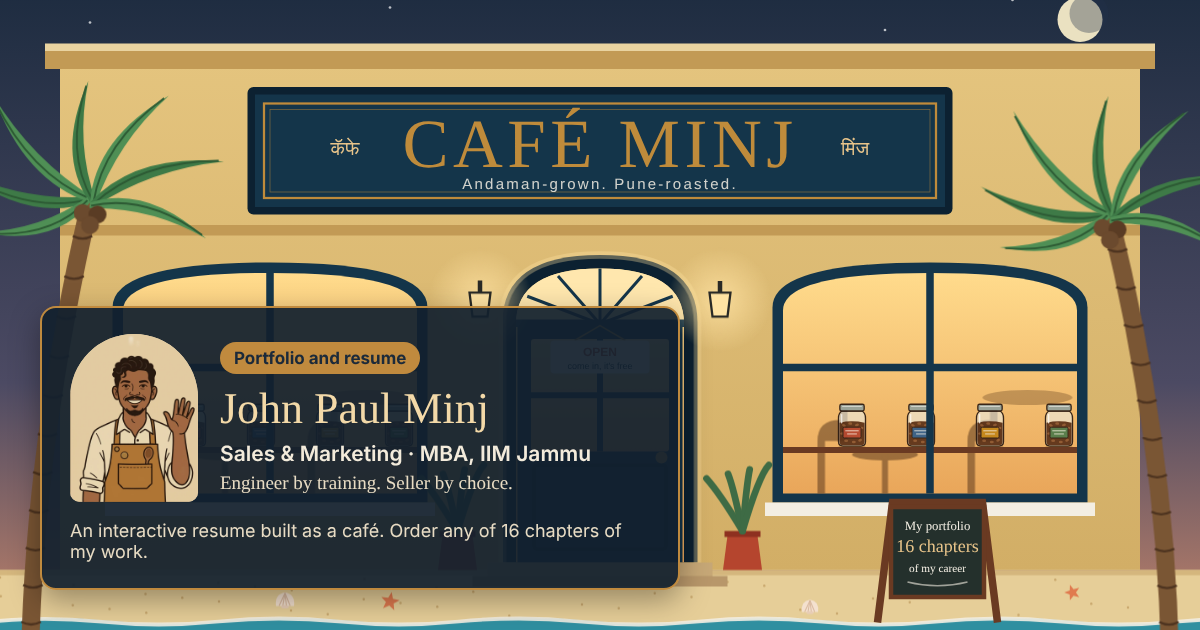
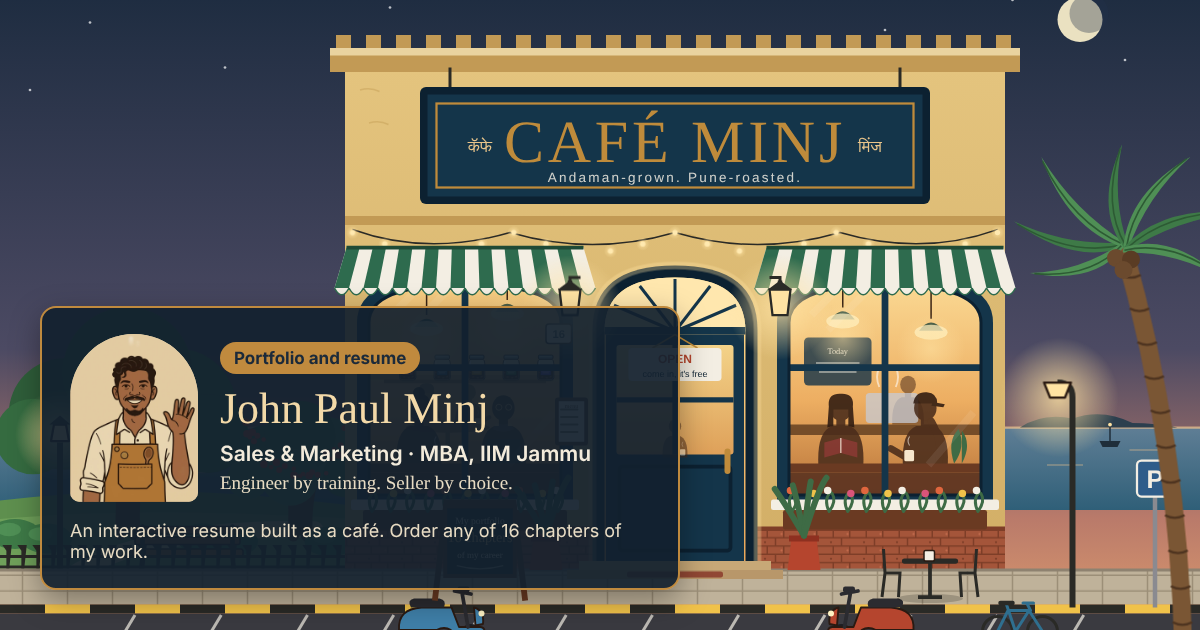
New café front: footpath and parking bays, a small park with bench and gulmohar, awnings, string lights, flower boxes, and people at the window bar
Claude-Session: https://claude.ai/code/session_01M7PDTuVyJJ1kuWZYfUFzFc

diff --git a/js/art.js b/js/art.js
@@ -560,103 +560,251 @@ window.ART = (function () {
 
   /* ---------- the street front (viewBox 0 0 1600 900) ---------- */
   function street(person) {
-    const win = (x) => `<g>
-      <path d="M${x},700 L${x},440 Q${x},380 ${x + 210},380 Q${x + 420},380 ${x + 420},440 L${x + 420},700 Z" fill="${C.bottle}"/>
-      <path d="M${x + 14},688 L${x + 14},444 Q${x + 14},394 ${x + 210},394 Q${x + 406},394 ${x + 406},444 L${x + 406},688 Z" fill="url(#glow)"/>
-      <g opacity=".55" fill="#5B3A1E">
-        <path d="M${x + 60},688 l0,-70 q0,-28 30,-28 l0,-14 l10,0 l0,42 l-30,0 l0,70 Z"/>
-        <ellipse cx="${x + 150}" cy="636" rx="44" ry="8"/><rect x="${x + 146}" y="636" width="8" height="52"/>
-        <path d="M${x + 260},688 l0,-70 q0,-28 30,-28 l0,-14 l10,0 l0,42 l-30,0 l0,70 Z"/>
-        <ellipse cx="${x + 340}" cy="560" rx="60" ry="10" opacity=".6"/>
+    /* ---------- people seen through the glass: warm silhouettes ---------- */
+    const SIL = "#4A2C1B";
+    const person1 = (x, y, s = 1, o = {}) => {        // seated, facing out, waist-up; y = table/bar line
+      const f = o.flip ? -1 : 1;
+      return `<g transform="translate(${x},${y}) scale(${s * f},${s})" opacity="${o.op || .88}">
+        <path d="M-30,0 Q-32,-44 -12,-52 L12,-52 Q32,-44 30,0 Z" fill="${o.shirt || SIL}"/>
+        <rect x="-6" y="-62" width="12" height="12" fill="${SIL}"/>
+        <ellipse cx="0" cy="-76" rx="15" ry="17" fill="${SIL}"/>
+        ${o.hair === "bun" ? `<circle cx="0" cy="-96" r="8" fill="#2E1A10"/><path d="M-15,-80 Q-14,-96 0,-95 Q14,-96 15,-80 Q8,-88 0,-88 Q-8,-88 -15,-80Z" fill="#2E1A10"/>` : ""}
+        ${o.hair === "long" ? `<path d="M-16,-78 Q-18,-96 0,-95 Q18,-96 16,-78 L18,-50 L10,-52 L10,-74 L-10,-74 L-10,-52 L-18,-50 Z" fill="#2E1A10"/>` : ""}
+        ${o.hair === "cap" ? `<path d="M-16,-82 Q-14,-98 2,-97 Q16,-96 16,-82 Z M10,-84 l16,3 l-2,4 l-16,-2Z" fill="#2E1A10"/>` : ""}
+        ${o.glasses ? `<circle cx="-6" cy="-77" r="4" fill="none" stroke="#F6D28A" stroke-width="1.2" opacity=".8"/><circle cx="7" cy="-77" r="4" fill="none" stroke="#F6D28A" stroke-width="1.2" opacity=".8"/>` : ""}
+        ${o.look === "down" ? `<path d="M-10,-66 q10,6 20,0" stroke="#F6D28A" stroke-width="1" fill="none" opacity=".35"/>` : ""}
+        ${o.cup ? `<path d="M${o.cup},-8 l-24,-14 l0,0" stroke="${SIL}" stroke-width="9" stroke-linecap="round"/><rect x="${o.cup - 6}" y="-20" width="13" height="15" rx="2" fill="#FBF3DF"/><path d="M${o.cup + 1},-26 q-4,-6 0,-12" stroke="#fff" stroke-width="1.5" fill="none" opacity=".6"/>` : ""}
+        ${o.laptop ? `<path d="M-26,-2 L-22,-34 L22,-34 L26,-2 Z" fill="#2B2B30"/><circle cx="0" cy="-19" r="3" fill="#9FB8C8" opacity=".7"/><path d="M-12,-52 Q0,-46 12,-52" stroke="#9FD0F0" stroke-width="10" opacity=".12"/>` : ""}
+        ${o.book ? `<path d="M-22,-10 L0,-16 L22,-10 L22,-30 L0,-36 L-22,-30 Z" fill="#7A2E2E"/><path d="M0,-16 L0,-36" stroke="#F3EEE3" stroke-width="1.5"/>` : ""}
+        ${o.chin ? `<path d="M18,-4 Q24,-30 8,-58" stroke="${SIL}" stroke-width="10" fill="none" stroke-linecap="round"/>` : ""}
+      </g>`;
+    };
+    const pendant = (x, y, len) => `<path d="M${x},0 L${x},${y + len}" stroke="#3A2414" stroke-width="2"/>
+      <path d="M${x - 16},${y + len + 16} Q${x},${y + len - 6} ${x + 16},${y + len + 16} Z" fill="#2E4A3A"/>
+      <ellipse cx="${x}" cy="${y + len + 18}" rx="22" ry="10" fill="#FFF1C4" opacity=".75"/>
+      <circle cx="${x}" cy="${y + len + 40}" r="46" fill="url(#lampHalo)" opacity=".7"/>`;
+    /* one arched shop window with a lit room behind it */
+    const shopWindow = (x, w, id, side) => {
+      const r = w / 2, top = 410, bot = 690, cx = x + r;
+      const arch = `M${x},${bot} L${x},${top + 50} Q${x},${top} ${cx},${top} Q${x + w},${top} ${x + w},${top + 50} L${x + w},${bot} Z`;
+      const room = side === "L" ? `
+          <rect x="${x}" y="${top}" width="${w}" height="${bot - top}" fill="url(#roomL)"/>
+          <rect x="${x}" y="${top + 120}" width="${w}" height="6" fill="#B07A3E" opacity=".5"/>
+          ${[0, 1, 2, 3, 4].map(i => `<g transform="translate(${x + 30 + i * 46},${top + 88}) scale(.36)">${item("jar", { jarColor: ["#B5452E", "#2F5D8A", "#C98A1B", "#4E7A4A", "#6B4FD8"][i] })}</g>`).join("")}
+          <rect x="${x + 20}" y="${top + 126}" width="${w - 40}" height="5" fill="#8A5A2B" opacity=".7"/>
+          <!-- a couple at a table further in -->
+          <g opacity=".55">${person1(x + w * .30, 600, .62, { hair: "long", cup: 20 })}${person1(x + w * .52, 600, .62, { cup: -20, flip: true })}
+            <ellipse cx="${x + w * .41}" cy="600" rx="56" ry="7" fill="#5B3A1E"/><rect x="${x + w * .41 - 3}" y="600" width="6" height="40" fill="#5B3A1E"/></g>
+          ${pendant(x + w * .3, top - 410, 450)}${pendant(x + w * .72, top - 410, 430)}
+          <!-- window bar: people sitting facing the street, one watching it -->
+          ${person1(x + w * .26, 650, 1, { cup: 22, look: "down", hair: "bun" })}
+          ${person1(x + w * .70, 650, 1, { laptop: true, glasses: true })}
+          <rect x="${x}" y="648" width="${w}" height="12" fill="#6A3A22"/>
+          <rect x="${x}" y="660" width="${w}" height="${bot - 660}" fill="#5A3220" opacity=".9"/>` : `
+          <rect x="${x}" y="${top}" width="${w}" height="${bot - top}" fill="url(#roomR)"/>
+          <!-- back counter: the espresso machine and the barista at work -->
+          <rect x="${x + 20}" y="${top + 70}" width="90" height="64" rx="6" fill="#203A4A" opacity=".85"/>
+          <text x="${x + 65}" y="${top + 92}" text-anchor="middle" font-family="Kalam, cursive" font-size="11" fill="#F3EEE3" opacity=".85">Today</text>
+          <path d="M${x + 36},${top + 104} h58 M${x + 40},${top + 116} h50" stroke="#F3EEE3" stroke-width="2" opacity=".6"/>
+          <g opacity=".6">${person1(x + w * .62, 596, .7, { cap: false })}</g>
+          <rect x="${x + w * .40}" y="${596 - 42}" width="70" height="40" rx="5" fill="#C7CBD4" opacity=".75"/>
+          <path d="M${x + w * .40 + 18},${596 - 50} q-6,-14 0,-26 M${x + w * .40 + 40},${596 - 50} q6,-14 0,-26" stroke="#fff" stroke-width="2.5" fill="none" opacity=".55"/>
+          <rect x="${x}" y="596" width="${w}" height="14" fill="#5B3A1E" opacity=".8"/>
+          ${pendant(x + w * .28, top - 410, 440)}${pendant(x + w * .74, top - 410, 455)}
+          <!-- window bar: a reader, and someone resting their chin, looking out -->
+          ${person1(x + w * .27, 650, 1, { book: true, hair: "long" })}
+          ${person1(x + w * .71, 650, 1, { chin: true, cup: -22, hair: "cap" })}
+          <path d="M${x + w * .86},648 q-10,-30 6,-46 q10,24 -6,46 M${x + w * .9},648 q14,-26 0,-44" fill="#3E6B45"/>
+          <rect x="${x}" y="648" width="${w}" height="12" fill="#6A3A22"/>
+          <rect x="${x}" y="660" width="${w}" height="${bot - 660}" fill="#5A3220" opacity=".9"/>`;
+      return `<g class="shop-window">
+        <clipPath id="clip-${id}"><path d="${arch}"/></clipPath>
+        <path d="M${x - 16},${bot + 10} L${x - 16},${top + 50} Q${x - 16},${top - 16} ${cx},${top - 16} Q${x + w + 16},${top - 16} ${x + w + 16},${top + 50} L${x + w + 16},${bot + 10} Z" fill="${C.bottle}"/>
+        <g clip-path="url(#clip-${id})">${room}
+          <path d="M${x + 30},${top + 40} L${x + 90},${top - 20} M${x + 52},${top + 60} L${x + 140},${top - 28} M${x + w - 70},${bot - 40} L${x + w - 10},${bot - 110}" stroke="#fff" stroke-width="10" opacity=".08"/>
+        </g>
+        <path d="M${cx},${top} L${cx},${bot} M${x},${top + 110} L${x + w},${top + 110}" stroke="${C.bottle}" stroke-width="9"/>
+        <path d="${arch}" fill="none" stroke="${C.bottleInk}" stroke-width="4"/>
+        <!-- sill and a flower box -->
+        <rect x="${x - 24}" y="${bot + 6}" width="${w + 48}" height="14" rx="3" fill="${C.ivory}"/>
+        <rect x="${x - 8}" y="${bot + 20}" width="${w + 16}" height="26" rx="3" fill="${C.teak}"/>
+        ${Array.from({ length: 11 }, (_, i) => { const fx = x + 4 + i * (w - 8) / 10; return `<path d="M${fx},${bot + 22} q-8,-16 2,-26 M${fx},${bot + 22} q10,-14 4,-24" stroke="#3E6B45" stroke-width="4" fill="none" stroke-linecap="round"/><circle cx="${fx + (i % 2 ? 4 : -2)}" cy="${bot + (i % 2 ? -2 : -6)}" r="5" fill="${["#E0663E", "#F0C24A", "#F3EEE3", "#D9547A"][i % 4]}"/>`; }).join("")}
+        <!-- striped awning -->
+        <g>
+          <path d="M${x - 30},${top - 50} L${x + w + 30},${top - 50} L${x + w + 46},${top + 4} L${x - 46},${top + 4} Z" fill="${C.ivory}"/>
+          ${Array.from({ length: 9 }, (_, i) => { const a = x - 30 + i * (w + 60) / 9, b = x - 46 + i * (w + 92) / 9, wa = (w + 60) / 18, wb = (w + 92) / 18; return `<path d="M${a},${top - 50} L${a + wa},${top - 50} L${b + wb},${top + 4} L${b},${top + 4} Z" fill="#2E6B4E"/>`; }).join("")}
+          <path d="${Array.from({ length: 18 }, (_, i) => { const b = x - 46 + i * (w + 92) / 18, wb = (w + 92) / 18; return `M${b},${top + 4} q${wb / 2},18 ${wb},0`; }).join(" ")}" fill="${C.ivory}" stroke="#2E6B4E" stroke-width="2"/>
+          <path d="M${x - 30},${top - 50} L${x + w + 30},${top - 50}" stroke="#1F4A36" stroke-width="5"/>
+        </g>
+      </g>`;
+    };
+    /* ---------- the park beside the café ---------- */
+    const tree = (x, base, h, r, col, flowers) => `<g>
+      <path d="M${x - 9},${base} Q${x - 4},${base - h * .5} ${x - 16},${base - h} M${x + 9},${base} Q${x + 6},${base - h * .5} ${x + 22},${base - h}" stroke="#5A3C24" stroke-width="16" fill="none" stroke-linecap="round"/>
+      <path d="M${x - 10},${base} L${x - 6},${base - h * .6} L${x + 8},${base - h * .6} L${x + 12},${base} Z" fill="#5A3C24"/>
+      ${[[-r * .7, -h - 10, r * .62], [r * .55, -h - 18, r * .66], [0, -h - r * .55, r * .72], [-r * .2, -h + 18, r * .58], [r * .9, -h + 16, r * .44], [-r * 1.05, -h + 20, r * .42]]
+        .map(([dx, dy, rr], i) => `<circle cx="${x + dx}" cy="${base + dy}" r="${rr}" fill="${col[i % col.length]}"/>`).join("")}
+      ${flowers ? Array.from({ length: 34 }, (_, i) => `<circle cx="${x + Math.sin(i * 2.3) * r * 1.1}" cy="${base - h - r * .3 + Math.cos(i * 1.7) * r * .55}" r="${3 + (i % 3)}" fill="${flowers}"/>`).join("") : ""}
+    </g>`;
+    const park = `
+      <!-- lawn, path, hedges -->
+      <path d="M-20,700 Q160,676 330,690 Q400,696 470,704 L470,800 L-20,800 Z" fill="#5E8F4E"/>
+      <path d="M-20,724 Q180,704 470,722 L470,800 L-20,800 Z" fill="#6FA05A"/>
+      <path d="M90,800 Q150,760 260,744 Q330,734 420,736" stroke="#D9C49A" stroke-width="22" fill="none" stroke-linecap="round" opacity=".9"/>
+      ${tree(170, 742, 150, 120, ["#2F5E3A", "#3E7A47", "#356B40"], null)}
+      ${tree(400, 744, 96, 66, ["#3E7A47", "#4F8F55"], "#E0472E")}
+      ${[[20, 742], [62, 748], [270, 748], [310, 752], [440, 752]].map(([x, y]) => `<ellipse cx="${x}" cy="${y}" rx="34" ry="20" fill="#3E7A47"/><ellipse cx="${x - 8}" cy="${y - 6}" rx="16" ry="9" fill="#4F8F55"/>`).join("")}
+      <!-- an empty bench under the lamp -->
+      <g transform="translate(250,770)">
+        <rect x="-70" y="-38" width="140" height="10" rx="3" fill="#8A5A2B" ${ol(2)}/><rect x="-70" y="-24" width="140" height="10" rx="3" fill="#8A5A2B" ${ol(2)}/>
+        <rect x="-74" y="-8" width="148" height="10" rx="3" fill="#A06A33" ${ol(2)}/>
+        <path d="M-60,2 L-62,22 M60,2 L62,22 M-60,-38 L-60,2 M60,-38 L60,2" stroke="#2A2A26" stroke-width="6" stroke-linecap="round"/>
       </g>
-      ${[0, 1, 2, 3].map(i => `<g transform="translate(${x + 70 + i * 92},560)" opacity=".92">${`<g transform="scale(.6)">${item("jar", { jarColor: ["#B5452E", "#2F5D8A", "#C98A1B", "#4E7A4A"][i] })}</g>`}</g>`).join("")}
-      <rect x="${x + 14}" y="626" width="392" height="8" fill="${C.teak}"/>
-      <path d="M${x + 210},394 L${x + 210},688 M${x + 14},520 L${x + 406},520" stroke="${C.bottle}" stroke-width="10"/>
-      <rect x="${x - 10}" y="700" width="440" height="18" fill="${C.ivory}"/>
+      <g><circle cx="80" cy="610" r="60" fill="url(#lampHalo)" class="halo"/>
+        <path d="M80,800 L80,620" stroke="#2A2A26" stroke-width="8"/><path d="M68,618 L92,618 L88,596 L72,596 Z" fill="#FFE3A3" ${ol(3)}/><path d="M66,596 L94,596 L80,584 Z" fill="#2A2A26"/></g>
+      <!-- the park railing along the footpath -->
+      <path d="M-20,786 L470,786 M-20,772 L470,772" stroke="#2A2A26" stroke-width="4"/>
+      ${Array.from({ length: 25 }, (_, i) => `<path d="M${-10 + i * 20},796 L${-10 + i * 20},764 l-4,-6 l8,0 Z" fill="#2A2A26" stroke="#2A2A26" stroke-width="3"/>`).join("")}`;
+    /* ---------- vehicles in the parking bays ---------- */
+    const scooter = (x, y, col, flip) => `<g transform="translate(${x},${y}) scale(${flip ? -1 : 1},1)">
+      <ellipse cx="0" cy="2" rx="62" ry="6" fill="#000" opacity=".25"/>
+      <circle cx="-38" cy="-14" r="16" fill="#1E1E22"/><circle cx="-38" cy="-14" r="6" fill="#8A8A90"/>
+      <circle cx="40" cy="-14" r="16" fill="#1E1E22"/><circle cx="40" cy="-14" r="6" fill="#8A8A90"/>
+      <path d="M-56,-22 Q-58,-50 -26,-52 L14,-52 L24,-26 L52,-26 Q60,-26 58,-14 L20,-14 Q10,-30 -6,-22 Z" fill="${col}" ${ol(2.5)}/>
+      <path d="M-40,-52 L4,-52 Q8,-62 -2,-64 L-36,-64 Q-46,-62 -40,-52 Z" fill="#2B2B30"/>
+      <path d="M36,-26 L28,-72 M18,-74 L40,-70" stroke="#2B2B30" stroke-width="5" stroke-linecap="round"/>
+      <path d="M44,-52 Q58,-48 56,-30 L46,-28 Z" fill="${col}" ${ol(2.5)}/><circle cx="54" cy="-44" r="4" fill="#FFF3C4"/>
+      <rect x="22" y="-80" width="16" height="8" rx="3" fill="#2B2B30"/>
+    </g>`;
+    const cycle = (x, y) => `<g transform="translate(${x},${y})" fill="none" stroke="#2A2A26" stroke-width="4" stroke-linecap="round">
+      <circle cx="-30" cy="-20" r="20"/><circle cx="30" cy="-20" r="20"/>
+      <path d="M-30,-20 L-6,-20 L12,-48 L-16,-48 Z M-6,-20 L-18,-56 M12,-48 L30,-20 M10,-56 L14,-48 M4,-58 L18,-58" stroke="#2F6F8F"/>
+      <path d="M-26,-58 L-10,-58" stroke-width="6"/>
     </g>`;
 
     return `<svg id="street-svg" viewBox="0 0 1600 900" preserveAspectRatio="xMidYMax slice" aria-hidden="true">
       <defs>
-        <linearGradient id="sky" x1="0" y1="0" x2="0" y2="1"><stop offset="0" stop-color="#1C2B3F"/><stop offset=".6" stop-color="#4C4A63"/><stop offset="1" stop-color="#C9876A"/></linearGradient>
+        <linearGradient id="sky" x1="0" y1="0" x2="0" y2="1"><stop offset="0" stop-color="#1C2B3F"/><stop offset=".55" stop-color="#4C4A63"/><stop offset=".8" stop-color="#B97A6A"/><stop offset="1" stop-color="#E6A36F"/></linearGradient>
         <linearGradient id="glow" x1="0" y1="0" x2="0" y2="1"><stop offset="0" stop-color="#FFDB8C"/><stop offset="1" stop-color="#E9A65A"/></linearGradient>
+        <linearGradient id="roomL" x1="0" y1="0" x2="0" y2="1"><stop offset="0" stop-color="#F7CF84"/><stop offset=".6" stop-color="#E9A65A"/><stop offset="1" stop-color="#B8743A"/></linearGradient>
+        <linearGradient id="roomR" x1="0" y1="0" x2="0" y2="1"><stop offset="0" stop-color="#FAD892"/><stop offset=".55" stop-color="#EDAE62"/><stop offset="1" stop-color="#B8743A"/></linearGradient>
         <linearGradient id="lime" x1="0" y1="0" x2="0" y2="1"><stop offset="0" stop-color="#E4C47E"/><stop offset="1" stop-color="#D2AE66"/></linearGradient>
+        <linearGradient id="seaDusk" x1="0" y1="0" x2="0" y2="1"><stop offset="0" stop-color="#5F7E95"/><stop offset="1" stop-color="#2F5F78"/></linearGradient>
         <radialGradient id="lampHalo"><stop offset="0" stop-color="#FFE3A3" stop-opacity=".8"/><stop offset="1" stop-color="#FFE3A3" stop-opacity="0"/></radialGradient>
+        <pattern id="laterite" width="44" height="22" patternUnits="userSpaceOnUse"><rect width="44" height="22" fill="#A4553A"/><path d="M0,21 H44 M22,0 V11 M0,10 H44 M11,11 V22 M33,11 V22" stroke="#7E3E28" stroke-width="2"/><circle cx="8" cy="5" r="1.5" fill="#7E3E28"/><circle cx="30" cy="16" r="1.5" fill="#C26B4C"/></pattern>
+        <pattern id="tiles" width="60" height="21" patternUnits="userSpaceOnUse"><rect width="60" height="21" fill="#BFB29A"/><path d="M0,20 H60 M30,0 V21" stroke="#9C8F78" stroke-width="2"/></pattern>
       </defs>
       <rect width="1600" height="900" fill="url(#sky)"/>
       <circle cx="1440" cy="56" r="30" fill="#F6EBC8" opacity=".95"/><circle cx="1452" cy="48" r="26" fill="#22324A" opacity=".35"/>
-      ${[[120, 60], [300, 120], [520, 40], [1180, 70], [1350, 30], [1500, 110], [860, 24]].map(([x, y]) => `<circle cx="${x}" cy="${y}" r="1.8" fill="#fff" opacity=".7"/>`).join("")}
-      <!-- building -->
-      <rect x="80" y="110" width="1440" height="680" fill="url(#lime)"/>
-      <rect x="60" y="96" width="1480" height="26" fill="#C29A55"/><rect x="60" y="88" width="1480" height="10" fill="#E9D3A0"/>
-      <rect x="80" y="330" width="1440" height="14" fill="#C29A55"/>
+      ${[[120, 60], [300, 120], [520, 40], [1180, 70], [1350, 30], [1500, 110], [860, 24], [40, 150], [700, 90]].map(([x, y]) => `<circle cx="${x}" cy="${y}" r="1.8" fill="#fff" opacity=".7"/>`).join("")}
+      <!-- the evening sea and the islands, behind the park and the lane -->
+      <rect x="0" y="600" width="1600" height="110" fill="url(#seaDusk)"/>
+      <path d="M0,600 L1600,600" stroke="#F2C48E" stroke-width="3" opacity=".7"/>
+      <path d="M40,600 q40,-26 90,-18 q30,-10 60,4 q24,-6 50,14 Z M1360,600 q30,-20 70,-12 q40,-14 80,6 q30,0 60,6 Z" fill="#2C3F4E"/>
+      ${[[90, 640], [250, 660], [1420, 650], [1530, 630]].map(([x, y]) => `<path d="M${x - 24},${y} h48" stroke="#F2C48E" stroke-width="2" opacity=".4"/>`).join("")}
+      <g transform="translate(1480,618)"><path d="M-14,0 L14,0 L10,8 L-10,8 Z" fill="#1F2E3A"/><path d="M0,0 L0,-20" stroke="#1F2E3A" stroke-width="2"/><circle cx="0" cy="-22" r="2.5" fill="#FFE3A3"/></g>
+      ${park}
+      <!-- the café building -->
+      <rect x="460" y="118" width="880" height="672" fill="url(#lime)"/>
+      ${Array.from({ length: 18 }, (_, i) => `<path d="M${480 + (i * 211) % 840},${150 + (i * 97) % 560} q14,-4 26,2" stroke="#C9A55E" stroke-width="2" fill="none" opacity=".6"/>`).join("")}
+      <rect x="440" y="102" width="920" height="24" fill="#C29A55"/><rect x="440" y="94" width="920" height="10" fill="#E9D3A0"/>
+      ${Array.from({ length: 23 }, (_, i) => `<rect x="${448 + i * 40}" y="76" width="20" height="18" fill="#C29A55"/>`).join("")}
+      <rect x="460" y="318" width="880" height="12" fill="#C29A55"/>
+      <rect x="460" y="736" width="880" height="54" fill="url(#laterite)"/>
+      <rect x="460" y="732" width="880" height="6" fill="#7E3E28"/>
       <!-- signboard -->
       <g>
-        <rect x="330" y="146" width="940" height="170" rx="8" fill="${C.bottleInk}"/>
-        <rect x="340" y="156" width="920" height="150" fill="${C.bottle}"/>
-        <rect x="352" y="168" width="896" height="126" fill="none" stroke="${C.gold}" stroke-width="3"/>
-        <rect x="360" y="176" width="880" height="110" fill="none" stroke="${C.gold}" stroke-width="1" opacity=".6"/>
-        <text x="800" y="252" text-anchor="middle" font-family="Rozha One, serif" font-size="92" letter-spacing="6" fill="${C.gold}">CAFÉ MINJ</text>
-        <text x="460" y="236" text-anchor="middle" font-family="Rozha One, serif" font-size="26" fill="${C.goldSoft}">कॅफे</text>
-        <text x="1140" y="236" text-anchor="middle" font-family="Rozha One, serif" font-size="26" fill="${C.goldSoft}">मिंज</text>
-        <text x="800" y="282" text-anchor="middle" font-family="Mukta, sans-serif" font-size="20" letter-spacing="3" fill="${C.ivory}" opacity=".85">Andaman-grown. Pune-roasted.</text>
+        <rect x="560" y="146" width="680" height="156" rx="8" fill="${C.bottleInk}"/>
+        <rect x="570" y="156" width="660" height="136" fill="${C.bottle}"/>
+        <rect x="582" y="168" width="636" height="112" fill="none" stroke="${C.gold}" stroke-width="3"/>
+        <text x="900" y="246" text-anchor="middle" font-family="Rozha One, serif" font-size="80" letter-spacing="5" fill="${C.gold}">CAFÉ MINJ</text>
+        <text x="640" y="232" text-anchor="middle" font-family="Rozha One, serif" font-size="22" fill="${C.goldSoft}">कॅफे</text>
+        <text x="1160" y="232" text-anchor="middle" font-family="Rozha One, serif" font-size="22" fill="${C.goldSoft}">मिंज</text>
+        <text x="900" y="272" text-anchor="middle" font-family="Mukta, sans-serif" font-size="18" letter-spacing="3" fill="${C.ivory}" opacity=".85">Andaman-grown. Pune-roasted.</text>
+        ${[600, 1200].map(x => `<path d="M${x},146 L${x},120" stroke="#2A2A26" stroke-width="4"/>`).join("")}
       </g>
-      ${win(150)}${win(1030)}
+      <!-- string lights under the cornice -->
+      <path d="M470,336 Q570,372 680,340 Q790,372 900,340 Q1010,372 1120,340 Q1230,372 1330,336" stroke="#2A2A26" stroke-width="2" fill="none"/>
+      ${Array.from({ length: 21 }, (_, i) => { const t = i / 20, x = 470 + t * 860, seg = (x - 470) % 215 / 215, y = 336 + Math.sin(seg * Math.PI) * 26 + 4; return `<circle cx="${x}" cy="${y}" r="9" fill="url(#lampHalo)" class="halo"/><circle cx="${x}" cy="${y}" r="3.5" fill="#FFE9B0"/>`; }).join("")}
+      ${shopWindow(492, 256, "wl", "L")}${shopWindow(1052, 256, "wr", "R")}
       <!-- door -->
       <g id="door-frame">
-        <path d="M670,780 L670,460 Q670,370 800,370 Q930,370 930,460 L930,780 Z" fill="${C.bottleInk}"/>
-        <path d="M688,780 L688,462 Q688,388 800,388 Q912,388 912,462 L912,780 Z" fill="url(#glow)"/>
-        <path d="M688,462 Q688,388 800,388 Q912,388 912,462 Z" fill="#FFE7AE"/>
-        ${[-60, -30, 0, 30, 60].map(a => `<path d="M800,462 L${800 + Math.sin(a * Math.PI / 180) * 112},${462 - Math.cos(a * Math.PI / 180) * 74}" stroke="${C.bottle}" stroke-width="4"/>`).join("")}
-        <rect x="688" y="456" width="224" height="10" fill="${C.bottle}"/>
+        <path d="M790,780 L790,470 Q790,384 900,384 Q1010,384 1010,470 L1010,780 Z" fill="${C.bottleInk}"/>
+        <path d="M806,780 L806,472 Q806,400 900,400 Q994,400 994,472 L994,780 Z" fill="url(#glow)"/>
+        <path d="M806,472 Q806,400 900,400 Q994,400 994,472 Z" fill="#FFE7AE"/>
+        ${[-60, -30, 0, 30, 60].map(a => `<path d="M900,472 L${900 + Math.sin(a * Math.PI / 180) * 94},${472 - Math.cos(a * Math.PI / 180) * 70}" stroke="${C.bottle}" stroke-width="4"/>`).join("")}
+        <rect x="806" y="466" width="188" height="10" fill="${C.bottle}"/>
         <g id="door" class="hot" data-act="enter">
-          <rect x="690" y="466" width="220" height="314" fill="${C.bottle}"/>
-          <rect x="708" y="482" width="184" height="150" rx="4" fill="url(#glow)" opacity=".95"/>
-          <path d="M800,482 L800,632 M708,557 L892,557" stroke="${C.bottle}" stroke-width="8"/>
-          <rect x="712" y="650" width="176" height="112" rx="4" fill="none" stroke="${C.bottleInk}" stroke-width="5"/>
-          <circle cx="882" cy="640" r="8" fill="${C.gold}"/>
-          <g transform="translate(800,520)">
-            <path d="M-34,-36 L0,-56 L34,-36" stroke="${C.gold}" stroke-width="2" fill="none"/>
-            <rect x="-66" y="-36" width="132" height="44" rx="5" fill="${C.ivory}"/>
-            <text x="0" y="-16" text-anchor="middle" font-family="Mukta, sans-serif" font-weight="700" font-size="16" fill="${C.chili}">OPEN</text>
-            <text x="0" y="2" text-anchor="middle" font-family="Mukta, sans-serif" font-size="12" fill="${C.bottleInk}">come in, it's free</text>
+          <rect x="808" y="476" width="184" height="304" fill="${C.bottle}"/>
+          <rect x="822" y="490" width="156" height="146" rx="4" fill="url(#glow)" opacity=".95"/>
+          <g opacity=".6">${person1(900, 640, .55, { cup: 18 })}</g>
+          <path d="M900,490 L900,636 M822,563 L978,563" stroke="${C.bottle}" stroke-width="7"/>
+          <rect x="826" y="652" width="148" height="112" rx="4" fill="none" stroke="${C.bottleInk}" stroke-width="5"/>
+          <rect x="966" y="628" width="8" height="34" rx="4" fill="${C.gold}"/>
+          <g transform="translate(900,528)">
+            <path d="M-30,-34 L0,-52 L30,-34" stroke="${C.gold}" stroke-width="2" fill="none"/>
+            <rect x="-62" y="-34" width="124" height="44" rx="5" fill="${C.ivory}"/>
+            <text x="0" y="-14" text-anchor="middle" font-family="Mukta, sans-serif" font-weight="700" font-size="16" fill="${C.chili}">OPEN</text>
+            <text x="0" y="4" text-anchor="middle" font-family="Mukta, sans-serif" font-size="12" fill="${C.bottleInk}">come in, it's free</text>
           </g>
         </g>
       </g>
+      <!-- house number, and a small menu case by the door -->
+      <g transform="translate(728,462)"><rect x="0" y="0" width="34" height="26" rx="4" fill="${C.ivory}" ${ol(2)}/><text x="17" y="19" text-anchor="middle" font-family="Mukta, sans-serif" font-weight="700" font-size="15" fill="${C.bottle}">16</text></g>
+      <g transform="translate(762,560)"><rect x="-22" y="0" width="44" height="64" rx="4" fill="${C.teak}"/><rect x="-17" y="5" width="34" height="54" fill="${C.ivory}"/>
+        ${[16, 26, 36, 46].map(y => `<path d="M-14,${y} h${y % 20 ? 22 : 28}" stroke="#8C7A66" stroke-width="2.5" stroke-linecap="round"/>`).join("")}<text x="0" y="14" text-anchor="middle" font-family="Kalam, cursive" font-size="8" fill="${C.teak}">menu</text></g>
       <!-- a pulse around the door and a comic pointer, so nobody misses the way in -->
-      <path class="door-pulse" d="M670,780 L670,460 Q670,370 800,370 Q930,370 930,460 L930,780" fill="none" stroke="#FFE3A3" stroke-width="10" stroke-linecap="round"/>
+      <path class="door-pulse" d="M790,780 L790,470 Q790,384 900,384 Q1010,384 1010,470 L1010,780" fill="none" stroke="#FFE3A3" stroke-width="10" stroke-linecap="round"/>
+      <!-- wall lanterns -->
+      ${[760, 1040].map(x => `<circle cx="${x}" cy="440" r="70" fill="url(#lampHalo)" class="halo"/><path d="M${x},408 l0,-8 l${x < 900 ? 14 : -14},0" stroke="#2A2A26" stroke-width="4" fill="none"/><rect x="${x - 3}" y="404" width="6" height="12" fill="#2A2A26"/><path d="M${x - 14},416 L${x + 14},416 L${x + 10},450 L${x - 10},450 Z" fill="#FFE3A3" stroke="#2A2A26" stroke-width="3"/><path d="M${x - 16},416 L${x + 16},416 L${x},404 Z" fill="#2A2A26"/>`).join("")}
+      <!-- steps and the footpath -->
+      <rect x="0" y="790" width="1600" height="46" fill="url(#tiles)"/>
+      <rect x="0" y="788" width="1600" height="4" fill="#8E8270"/>
+      <rect x="772" y="778" width="256" height="14" fill="#C7A877"/><rect x="756" y="790" width="288" height="12" fill="#B8976A"/>
+      <rect x="836" y="792" width="128" height="8" rx="3" fill="#8A3A2A" opacity=".85"/>
+      <!-- yellow-and-black kerb -->
+      ${Array.from({ length: 27 }, (_, i) => `<rect x="${i * 60}" y="836" width="60" height="12" fill="${i % 2 ? "#F0C24A" : "#2A2A26"}"/>`).join("")}
+      <!-- the lane, with parking bays -->
+      <rect x="0" y="848" width="1600" height="52" fill="#3A3A40"/>
+      ${Array.from({ length: 12 }, (_, i) => `<path d="M${180 + i * 115},850 L${150 + i * 115},900" stroke="#E8E4DA" stroke-width="4" opacity=".75"/>`).join("")}
+      <text x="815" y="892" text-anchor="middle" font-family="Mukta, sans-serif" font-weight="700" font-size="26" fill="#E8E4DA" opacity=".55">P</text>
+      ${scooter(588, 892, "#3F7FA8")}${scooter(1162, 892, "#B5452E", true)}${cycle(1360, 892)}
+      <!-- plants by the door -->
+      ${[728, 1072].map(x => `<g transform="translate(${x},790)"><path d="M-22,0 L22,0 L17,-40 L-17,-40 Z" fill="${C.chili}"/><rect x="-20" y="-46" width="40" height="8" fill="#8E3020"/>
+        ${[-26, -10, 6, 20].map((a, i) => `<path d="M0,-46 q${a},-${44 + i * 7} ${a * 1.5},-${62 + i * 5}" stroke="#3E6B45" stroke-width="8" fill="none" stroke-linecap="round"/>`).join("")}</g>`).join("")}
+      <!-- a café table on the footpath, waiting for someone -->
+      <g transform="translate(1240,818)">
+        <ellipse cx="0" cy="10" rx="44" ry="6" fill="#000" opacity=".18"/>
+        <path d="M-34,-40 L34,-40" stroke="#2A2A26" stroke-width="7" stroke-linecap="round"/><path d="M0,-40 L0,6 M-16,8 L16,8" stroke="#2A2A26" stroke-width="5"/>
+        <path d="M-64,8 L-60,-24 L-40,-24 L-42,8 M-60,-24 L-62,-56" stroke="#2A2A26" stroke-width="4" fill="none"/>
+        <path d="M64,8 L60,-24 L40,-24 L42,8 M60,-24 L62,-56" stroke="#2A2A26" stroke-width="4" fill="none"/>
+        <rect x="-8" y="-54" width="14" height="14" rx="2" fill="${C.ivory}" ${ol(2)}/>
+      </g>
+      <!-- A-frame chalk board -->
+      <g transform="translate(640,700) scale(.86)">
+        <path d="M-70,152 L-52,0 L52,0 L70,152" stroke="${C.teak}" stroke-width="9" fill="none"/>
+        <rect x="-54" y="6" width="108" height="108" fill="#24302C" stroke="${C.teak}" stroke-width="6"/>
+        <text x="0" y="34" text-anchor="middle" font-family="Kalam, cursive" font-size="15" fill="${C.ivory}">My portfolio</text>
+        <text x="0" y="62" text-anchor="middle" font-family="Kalam, cursive" font-size="22" fill="${C.goldSoft}">16 chapters</text>
+        <text x="0" y="86" text-anchor="middle" font-family="Kalam, cursive" font-size="14" fill="${C.ivory}">of my career</text>
+        <path d="M-36,98 q36,10 72,0" stroke="${C.ivory}" stroke-width="2" fill="none" opacity=".6"/>
+      </g>
+      <!-- street lamp and the parking sign on the lane side -->
+      <g transform="translate(-40,0)"><circle cx="1452" cy="560" r="80" fill="url(#lampHalo)" class="halo"/>
+        <path d="M1470,840 L1470,560 Q1470,540 1450,540" stroke="#2A2A26" stroke-width="8" fill="none"/><path d="M1432,540 L1468,540 L1460,560 L1440,560 Z" fill="#FFE3A3" ${ol(3)}/></g>
+      <g transform="translate(1540,840)"><path d="M0,0 L0,-150" stroke="#8A8A90" stroke-width="6"/><rect x="-24" y="-196" width="48" height="48" rx="6" fill="#2F5D8A" stroke="#F3EEE3" stroke-width="3"/>
+        <text x="0" y="-160" text-anchor="middle" font-family="Mukta, sans-serif" font-weight="700" font-size="34" fill="#F3EEE3">P</text></g>
+      <!-- coconut palm on the lane side -->
+      ${palm(1578, -1, 360, .85)}
+      <!-- the comic pointer sits on top of everything -->
       <g id="door-hint" class="hot" data-act="enter">
         <g class="door-hint-inner">
-          <path d="M962,612 L934,632 L966,640 Z" fill="#fff" ${ol(4)}/>
-          <rect x="956" y="590" width="196" height="56" rx="16" fill="#fff" ${ol(4)}/>
-          <path d="M960,616 L960,636" stroke="#fff" stroke-width="8"/>
-          <text id="door-hint-text" x="1054" y="628" text-anchor="middle" textLength="164" lengthAdjust="spacingAndGlyphs" font-family="Bangers, Impact, sans-serif" font-size="30" fill="${INK}">Click the door!</text>
+          <path d="M1042,612 L1014,632 L1046,640 Z" fill="#fff" ${ol(4)}/>
+          <rect x="1036" y="590" width="196" height="56" rx="16" fill="#fff" ${ol(4)}/>
+          <path d="M1040,616 L1040,636" stroke="#fff" stroke-width="8"/>
+          <text id="door-hint-text" x="1134" y="628" text-anchor="middle" textLength="164" lengthAdjust="spacingAndGlyphs" font-family="Bangers, Impact, sans-serif" font-size="30" fill="${INK}">Click the door!</text>
         </g>
       </g>
-      <!-- lamps -->
-      ${[640, 960].map(x => `<circle cx="${x}" cy="430" r="70" fill="url(#lampHalo)" class="halo"/><rect x="${x - 3}" y="404" width="6" height="16" fill="#2A2A26"/><path d="M${x - 14},420 L${x + 14},420 L${x + 10},452 L${x - 10},452 Z" fill="#FFE3A3" stroke="#2A2A26" stroke-width="3"/>`).join("")}
-      <!-- the beach in front of the café, and the sea -->
-      <rect x="0" y="790" width="1600" height="110" fill="#E6CE98"/>
-      <rect x="0" y="790" width="1600" height="7" fill="#D4B67D"/>
-      ${Array.from({ length: 40 }, (_, i) => `<circle cx="${(i * 97) % 1600}" cy="${800 + (i * 37) % 52}" r="1.6" fill="#C9A86E"/>`).join("")}
-      <rect x="650" y="780" width="300" height="20" fill="#C7A877"/><rect x="630" y="798" width="340" height="14" fill="#B8976A"/>
-      ${starfish(520, 832, 13, 10)}${starfish(1430, 820, 11, -18)}${shell(380, 838, 1)}${shell(1080, 846, .9)}
-      <path d="M-20,860 Q60,850 140,858 T300,858 T460,858 T620,858 T780,858 T940,858 T1100,858 T1260,858 T1420,858 T1580,858 T1740,858 L1740,900 L-20,900 Z" fill="#2F8FA0"/>
-      <g class="surf"><path d="M-20,860 Q60,850 140,858 T300,858 T460,858 T620,858 T780,858 T940,858 T1100,858 T1260,858 T1420,858 T1580,858 T1740,858" stroke="#F3EEE3" stroke-width="5" fill="none" stroke-linecap="round" opacity=".9"/>
-        <path d="M40,878 q30,-6 60,0 M380,884 q30,-6 60,0 M760,878 q30,-6 60,0 M1140,884 q30,-6 60,0 M1480,878 q30,-6 60,0" stroke="#7CC4CC" stroke-width="3" fill="none"/></g>
-      <!-- plants -->
-      ${[610, 990].map(x => `<g transform="translate(${x},790)"><path d="M-26,0 L26,0 L20,-46 L-20,-46 Z" fill="${C.chili}"/><rect x="-24" y="-52" width="48" height="8" fill="#8E3020"/>
-        ${[-30, -12, 6, 22].map((a, i) => `<path d="M0,-52 q${a},-${50 + i * 8} ${a * 1.6},-${70 + i * 6}" stroke="#3E6B45" stroke-width="9" fill="none" stroke-linecap="round"/>`).join("")}</g>`).join("")}
-      <!-- A-frame chalk board -->
-      <g transform="translate(1250,700)">
-        <path d="M-80,160 L-60,0 L60,0 L80,160" stroke="${C.teak}" stroke-width="10" fill="none"/>
-        <rect x="-62" y="6" width="124" height="120" fill="#24302C" stroke="${C.teak}" stroke-width="6"/>
-        <text x="0" y="36" text-anchor="middle" font-family="Kalam, cursive" font-size="17" fill="${C.ivory}">My portfolio</text>
-        <text x="0" y="66" text-anchor="middle" font-family="Kalam, cursive" font-size="24" fill="${C.goldSoft}">16 chapters</text>
-        <text x="0" y="92" text-anchor="middle" font-family="Kalam, cursive" font-size="15" fill="${C.ivory}">of my career</text>
-        <path d="M-40,106 q40,10 80,0" stroke="${C.ivory}" stroke-width="2" fill="none" opacity=".6"/>
-      </g>
-      <!-- coconut palms framing the café -->
-      ${palm(40, 1, 300)}${palm(1560, -1, 320)}
     </svg>`;
   }
 

diff --git a/css/style.css b/css/style.css
@@ -568,7 +568,7 @@ dialog#book-dialog::backdrop { background: rgba(10, 18, 15, .75); backdrop-filte
 
 /* ============ RESPONSIVE ============ */
 @media (max-width: 699px) {
-  .street-hero { display: flex; flex-direction: column; justify-content: flex-end; height: auto; min-height: 100dvh; background: linear-gradient(#1C2B3F 0 30%, #2F8FA0 30%); }
+  .street-hero { display: flex; flex-direction: column; justify-content: flex-end; height: auto; min-height: 100dvh; background: linear-gradient(#1C2B3F 0 30%, #3A3A40 30%); }
   .street-art { position: relative; inset: auto; aspect-ratio: 1000 / 820; transform-origin: 50% 66%; }
   .street-intro { position: relative; left: auto; bottom: auto; width: auto; margin: 0 12px 16px; padding: 18px 18px 20px; }
 }

diff --git a/index.html b/index.html
@@ -10,7 +10,7 @@
   <meta property="og:description" content="An interactive resume, built as a café: order any chapter of John Paul Minj's work in sales and marketing.">
   <meta property="og:type" content="website">
   <meta property="og:url" content="https://johnpaulminj.com/">
-  <meta property="og:image" content="https://johnpaulminj.com/assets/og-image.png?v=2">
+  <meta property="og:image" content="https://johnpaulminj.com/assets/og-image.png?v=3">
   <meta property="og:image:width" content="1200">
   <meta property="og:image:height" content="630">
   <meta name="twitter:card" content="summary_large_image">
